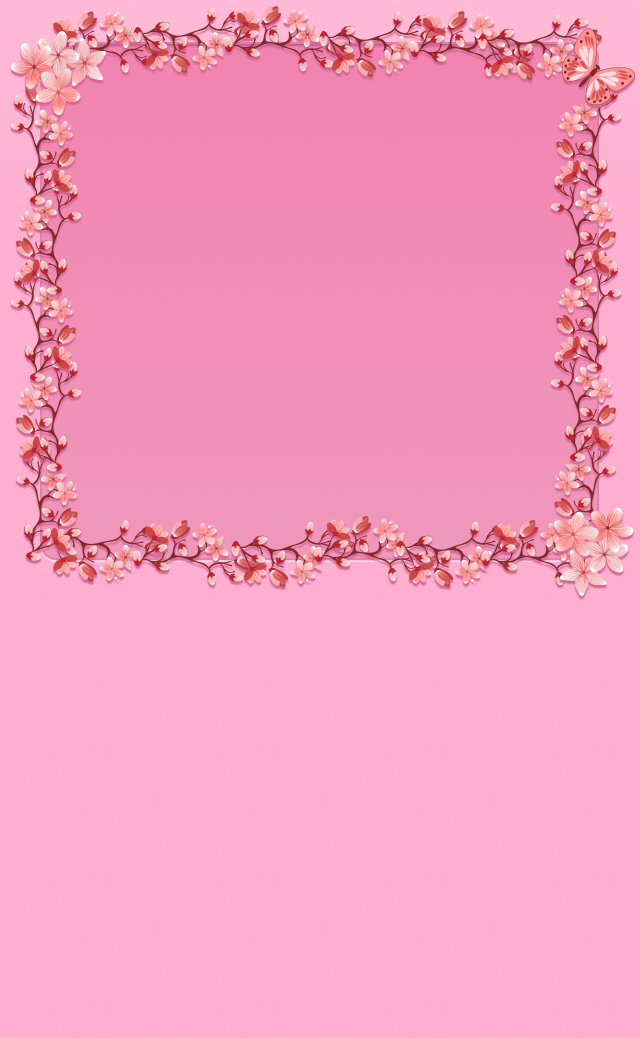
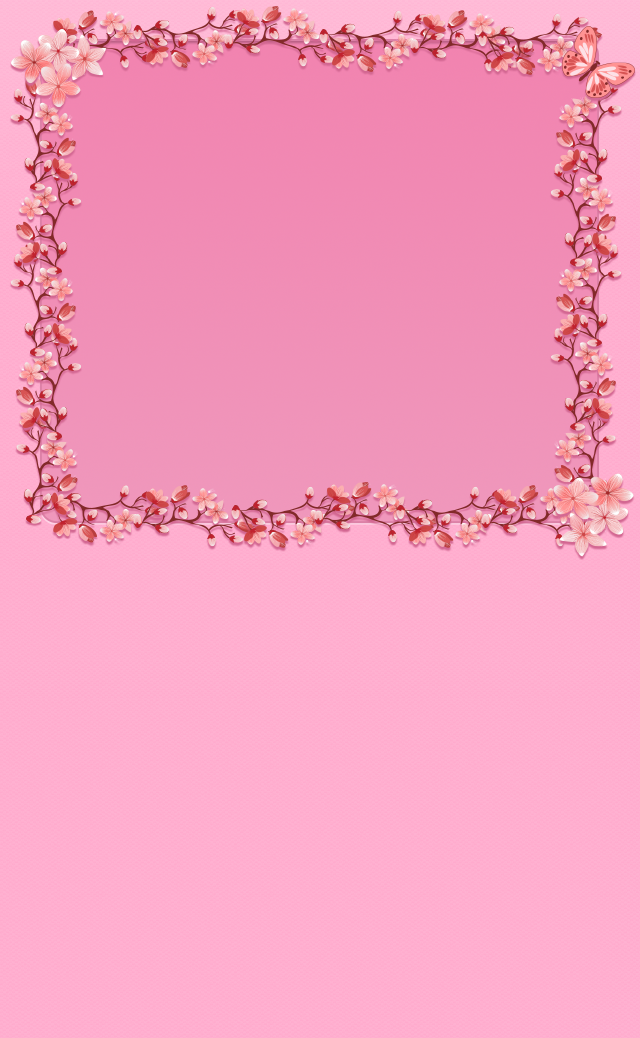
Cleaned up code, corrected PNG for compose screen on iPhone 5.

Changed region(s): [[0.0, 0.0, 1.0, 0.5857]]

diff --git a/GayHaikuTabbed/GHHaikuViewController.m b/GayHaikuTabbed/GHHaikuViewController.m
@@ -34,10 +34,10 @@
     self.view.backgroundColor = [UIColor whiteColor];
     background.backgroundColor = [UIColor whiteColor];
     screenColorTrans = [UIColor colorWithRed:123/255.0 green:47/255.0 blue:85/255.0 alpha:.75];
-    screenColorOp = [UIColor colorWithRed:123/255.0 green:47/255.0 blue:85/255.0 alpha:1];
     self.view.autoresizesSubviews=YES;
     [self.view addSubview:background];
-   [self setWidthAndHeight];
+    screenHeight = self.view.bounds.size.height;
+    screenWidth = self.view.bounds.size.width;
     
                 //Add the UIImageView that corresponds to the size of the iPhone, and add the background image
     
@@ -103,6 +103,7 @@
     UITextView *instructions = [[UITextView alloc] init];
     instructions.editable=NO;
     instructions.userInteractionEnabled=NO;
+    UIColor *screenColorOp = [UIColor colorWithRed:123/255.0 green:47/255.0 blue:85/255.0 alpha:1];
     instructions.textColor = screenColorOp;
     instructions.backgroundColor = [UIColor clearColor];
     instructions.text = @"Swipe";
@@ -178,11 +179,6 @@
     titleBar.rightBarButtonItem = send;
 }
 
--(void)setWidthAndHeight {
-    screenWidth = self.view.bounds.size.width;
-    screenHeight = self.view.bounds.size.height;
-}
-
 -(void)addLeftButtons {
     
                 //Add buttons allowing the user to delete and/or edit haiku s/he's composed.
@@ -202,7 +198,7 @@
     float widthOfLongestLineSoFar = 0.0;
     NSArray *lines = [verify splitHaikuIntoLines:self.ghhaiku.text];
     for (int i = 0; i < lines.count; i++) {
-        CGSize sizeOfLine = [[verify.listOfLines objectAtIndex:i] sizeWithFont:[UIFont fontWithName:@"Helvetica Neue" size:15]];
+        CGSize sizeOfLine = [[verify.listOfLines objectAtIndex:i] sizeWithFont:[UIFont fontWithName:@"Helvetica Neue" size:mediumFontSize]];
         float widthOfLineUnderConsideration = sizeOfLine.width;
         if (widthOfLongestLineSoFar<widthOfLineUnderConsideration) {
             widthOfLongestLineSoFar = widthOfLineUnderConsideration;
@@ -222,13 +218,11 @@
     self.ghhaiku=[GHHaiku sharedInstance];
     [self.ghhaiku haikuToShow];
     [self measureWidthOfTextView];
-    
-    int fontSize = 15;
-    
+
                     //Set CGSize so that haiku can be laid out in the center.
     
     CGSize dimensions = CGSizeMake(screenWidth, screenHeight);
-    CGSize xySize = [self.ghhaiku.text sizeWithFont:[UIFont fontWithName:@"Helvetica Neue" size:fontSize] constrainedToSize:dimensions lineBreakMode:0];
+    CGSize xySize = [self.ghhaiku.text sizeWithFont:[UIFont fontWithName:@"Helvetica Neue" size:mediumFontSize] constrainedToSize:dimensions lineBreakMode:0];
 
 //If this is a problem, replace mediumFontSize in above line with largeFontSize.
     
@@ -241,7 +235,7 @@
     displayHaikuTextView.backgroundColor = [UIColor clearColor];
     displayHaikuTextView.editable=NO;
     displayHaikuTextView.userInteractionEnabled=NO;
-    displayHaikuTextView.font=[UIFont fontWithName:@"Helvetica Neue" size:fontSize];
+    displayHaikuTextView.font=[UIFont fontWithName:@"Helvetica Neue" size:mediumFontSize];
     displayHaikuTextView.text=self.ghhaiku.text;
     [displayHaikuTextView setFrame:CGRectMake((screenWidth/2)-(textWidth/2),screenHeight/2-xySize.height,textWidth/2 + screenWidth/2,textHeight*2)];
  

diff --git a/GayHaikuTabbed/GHSettingsViewController.m b/GayHaikuTabbed/GHSettingsViewController.m
@@ -38,7 +38,7 @@
     
     //userSettings.optOutSeen=NO;
     
-                //Add swipe gesure recognizer if user has never swiped from settings to instructions.
+                //Add swipe gesture recognizer if user has never swiped from settings to instructions.
     
    if (userSettings.instructionsSwipedToFromOptOut==NO) {
         UISwipeGestureRecognizer *swipeLeft = [[UISwipeGestureRecognizer alloc] initWithTarget:self action:@selector(switchToInstructions)];
@@ -110,7 +110,7 @@
 
 -(UITextView *)createSwipeToAdd: (NSString *)word {
     
-    //Create "Swipe" text and its characteristics
+                //Create "Swipe" text and its characteristics
     
     UITextView *instructions = [[UITextView alloc] init];
     instructions.editable=NO;
@@ -119,9 +119,7 @@
     instructions.text = word;
     instructions.userInteractionEnabled=NO;
     instructions.font = [UIFont fontWithName:@"Zapfino" size:largeFontSize];
-    userSettings.optOutSeen=YES;
-    [userSettings.defaults setBool:YES forKey:@"optOutSeen?"];
-    [userSettings.defaults synchronize];
+
     return instructions;
 }
 
@@ -138,6 +136,9 @@
     CGSize xySize = [text sizeWithFont:[UIFont fontWithName:@"Zapfino" size:largeFontSize] constrainedToSize:dimensions lineBreakMode:0];
     CGRect rect = CGRectMake((dimensions.width - xySize.width), screenHeight*0.75, xySize.width, xySize.height);
     swipeInstructions.frame = rect;
+    userSettings.optOutSeen=YES;
+    [userSettings.defaults setBool:YES forKey:@"optOutSeen?"];
+    [userSettings.defaults synchronize];
     
                 //Display it.
     
@@ -154,16 +155,21 @@
     
     if (nameField.text.length>0) {
         userSettings.author=nameField.text;
-        //userSettings.defaults = [NSUserDefaults standardUserDefaults];
         [userSettings.defaults setObject:nameField.text forKey:@"author"];
         [userSettings.defaults synchronize];
     }
 }
 
 -(IBAction)givePermission:(UISegmentedControl *)sender {
+    
+                //Change the bool for the permissionDenied property and synchronize the default.
+    
     userSettings.permissionDenied=!userSettings.permissionDenied;
     [userSettings.defaults setBool:userSettings.permissionDenied forKey:@"permissionDenied?"];
     [userSettings.defaults synchronize];
+    
+                //Change the display of the UISegmentedControl
+    
     if (permissionDenied.selectedSegmentIndex==0) {
         [permissionDenied setTitle:@"Yes" forSegmentAtIndex:0];
         [permissionDenied setTitle:@"" forSegmentAtIndex:1];
@@ -175,9 +181,15 @@
 }
 
 -(IBAction)disableSyllableVerification:(UISegmentedControl *)sender {
+    
+                //Change the bool for the disableVerification property and synchronize the default.
+    
     userSettings.disableSyllableCheck=!userSettings.disableSyllableCheck;
     [userSettings.defaults setBool:userSettings.disableSyllableCheck forKey:@"disableSyllableCheck?"];
     [userSettings.defaults synchronize];
+    
+                //Change the display of the UISegmentedControl
+    
     if (disableVerification.selectedSegmentIndex==0) {
         [disableVerification setTitle:@"On" forSegmentAtIndex:0];
         [disableVerification setTitle:@"" forSegmentAtIndex:1];

diff --git a/GayHaikuTabbed/GHFeedback.m b/GayHaikuTabbed/GHFeedback.m
@@ -33,7 +33,8 @@
             //Creates a UIImageView in which and a CGRect with which to display the background image.  
 
     CGRect frame;
-    [self setWidthAndHeight];
+    screenHeight = self.view.bounds.size.height;
+    screenWidth = self.view.bounds.size.width;
     frame = CGRectMake(0, 0, screenWidth, (screenHeight-tabBarHeight));
     background = [[UIImageView alloc] initWithFrame:frame];
     background.backgroundColor = [UIColor whiteColor];
@@ -45,11 +46,6 @@
     }
     [self.view addSubview:background];
     [self displayFeedbackText];
-}
-
--(void)setWidthAndHeight {
-    screenHeight = self.view.bounds.size.height;
-    screenWidth = self.view.bounds.size.width;
 }
 
 -(void)displayFeedbackText {

diff --git a/GayHaikuTabbed/GHAppDefaults.m b/GayHaikuTabbed/GHAppDefaults.m
@@ -8,17 +8,16 @@
 
 #import "GHAppDefaults.h"
 
-int const screenWidthPhone = 320;
-int const screenWidthPad = 1024;
-int const screenHeightPad = 768;
 int const tabBarHeight = 49;
 int const toolbarHeight = 44;
 int const keyboardHeight = 216;
 int const buttonSideLength = 44;
 int const smallFontSize = 12;
-int const mediumFontSize = 14;
+int const mediumFontSize = 15;
 int const largeFontSize = 17;
 int const gap = 10;
+int screenHeight;
+int screenWidth;
 
 @implementation GHAppDefaults
 

diff --git a/GayHaikuTabbed/GHAppDefaults.h b/GayHaikuTabbed/GHAppDefaults.h
@@ -8,9 +8,6 @@
 
 #import <Foundation/Foundation.h>
 
-extern int const screenWidthPhone;
-extern int const screenWidthPad;
-extern int const screenHeightPad;
 extern int const tabBarHeight;
 extern int const toolbarHeight;
 extern int const keyboardHeight;
@@ -19,6 +16,8 @@ extern int const smallFontSize;
 extern int const mediumFontSize;
 extern int const largeFontSize;
 extern int const gap;
+extern int screenHeight;
+extern int screenWidth;
 
 @interface GHAppDefaults : NSObject
 

diff --git a/GayHaikuTabbed/GHSettingsViewController.h b/GayHaikuTabbed/GHSettingsViewController.h
@@ -15,8 +15,6 @@
     IBOutlet UITextField *nameField;             //Field for user to enter name.
     UITextView *swipeInstructions;        //Instructions to swipe to get to GHComposeViewController.
     GHAppDefaults *userSettings;            //Instantiation of GHUserSettings.
-    int screenHeight;
-    int screenWidth;
     UIImageView *background;
     UIColor *screenColor;
     IBOutlet UISegmentedControl *permissionDenied;

diff --git a/GayHaikuTabbed/GHComposeViewController.h b/GayHaikuTabbed/GHComposeViewController.h
@@ -26,8 +26,6 @@
     UITextView *textView;               //Editable text view for haiku entry.
     UITextView *nextInstructions;       //Contains the instructions for moving from instructions to compose (should be a label?)
     UIAlertView *alert;                 //Alert in case of syllable errors.
-    int screenHeight;
-    int screenWidth;
     CGRect frame;
     UIColor *screenColor;
     NSString *haikuWithAttribution;

diff --git a/GayHaikuTabbed/GHHaikuViewController.h b/GayHaikuTabbed/GHHaikuViewController.h
@@ -24,11 +24,8 @@
     UITextView *displayHaikuTextView;           //Textview that displays the current haiku
     UIImageView *background;
     UIColor *screenColorTrans;
-    UIColor *screenColorOp;
     GHAppDefaults *userInfo;
     GHVerify *verify;
-    int screenHeight;
-    int screenWidth;
     float textWidth;
     float textHeight;
 }

diff --git a/GayHaikuTabbed/GHComposeViewController.m b/GayHaikuTabbed/GHComposeViewController.m
@@ -175,7 +175,7 @@
         background.image=[UIImage imageNamed:@"compose.png"];
     }
     else {
-        background.image=[UIImage imageNamed:@"compose.png"];
+        background.image=[UIImage imageNamed:@"5compose.png"];
     }
     [self.view addSubview:background];
     

diff --git a/GayHaikuTabbed/GHFeedback.h b/GayHaikuTabbed/GHFeedback.h
@@ -12,8 +12,6 @@
 @interface GHFeedback : UIViewController {
     UITextView *feedback;      //Text telling user how to get in touch with me.
     UIImageView *background;
-    int screenWidth;
-    int screenHeight;
 }
 
 @end

diff --git a/GayHaikuTabbed/GHWebViewController.h b/GayHaikuTabbed/GHWebViewController.h
@@ -14,8 +14,6 @@
     UINavigationItem *navBarTitle;
     UIAlertView *alert;
     UIWebView *webV;
-    int screenWidth;
-    int screenHeight;
     UIColor *screenColor;
 }
 
